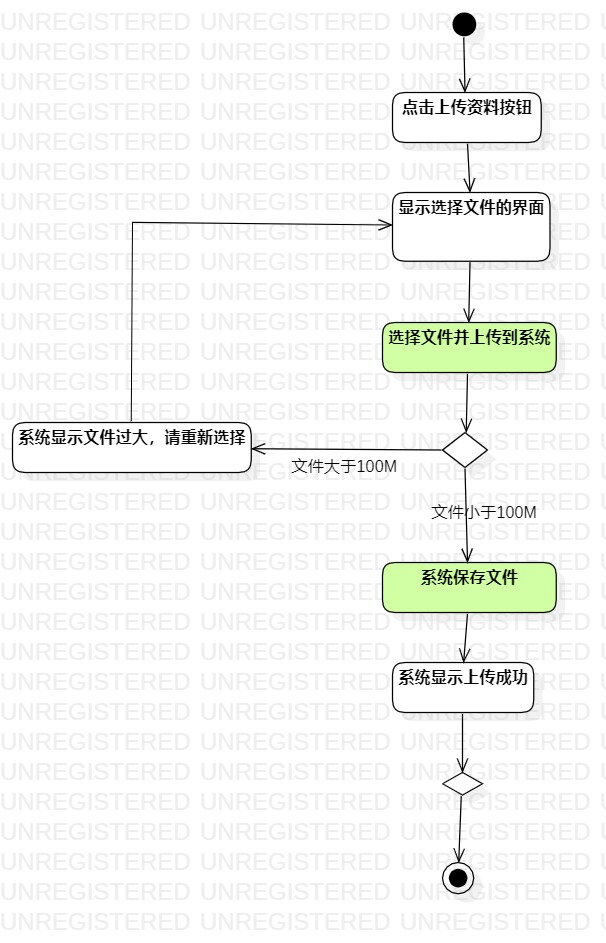
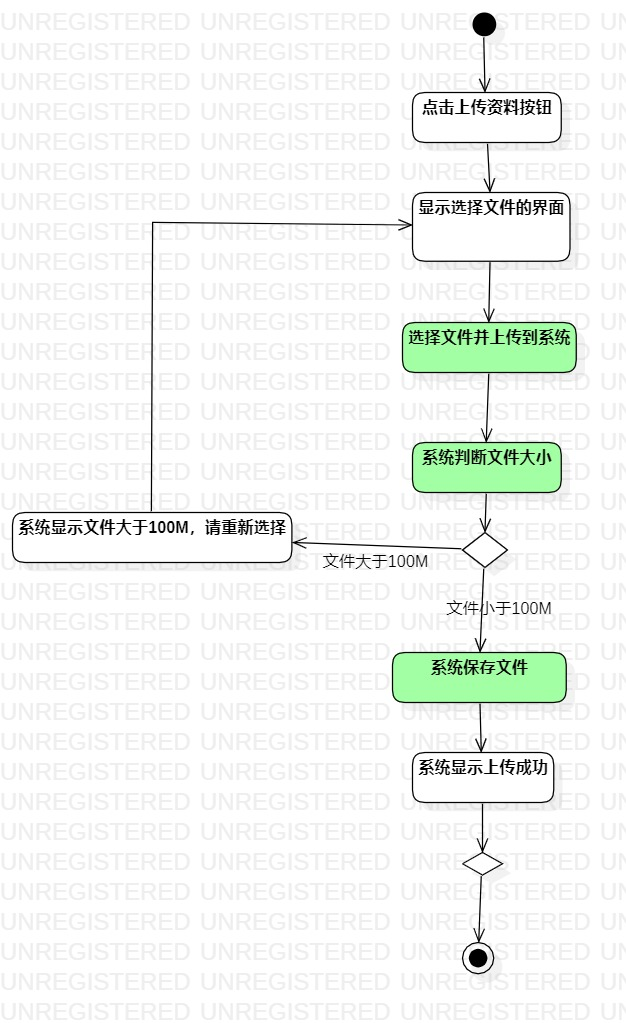
修改实验3 增加系统判断文件性为

Changed region(s): [[0.0, 0.0, 0.9208, 0.9533]]

diff --git a/students/1706081301317/lab2.md b/students/1706081301317/lab2.md
@@ -39,9 +39,10 @@
 ~| 2.点击上传资料按钮 |   
 ~| 3.显示选择文件的界面 |   
 ~| 4.教师选择资料并上传到系统   |   
-~| 5.系统接收到文件并保存 |  
-~| 6.系统显示上传成功 |
-扩展流程  | 4.1 上传的文件超过100M，系统不保存，提示文件过大 |  *用例执行失败*    
+~| 5.系统检查文件大小|
+~| 6.系统保存文件 |  
+~| 7.系统显示上传成功 |
+扩展流程  | 5.1 上传的文件超过100M，系统不保存，提示文件大于100M |  *用例执行失败*    
 
 #### 表2：查找资料用例规约
 
